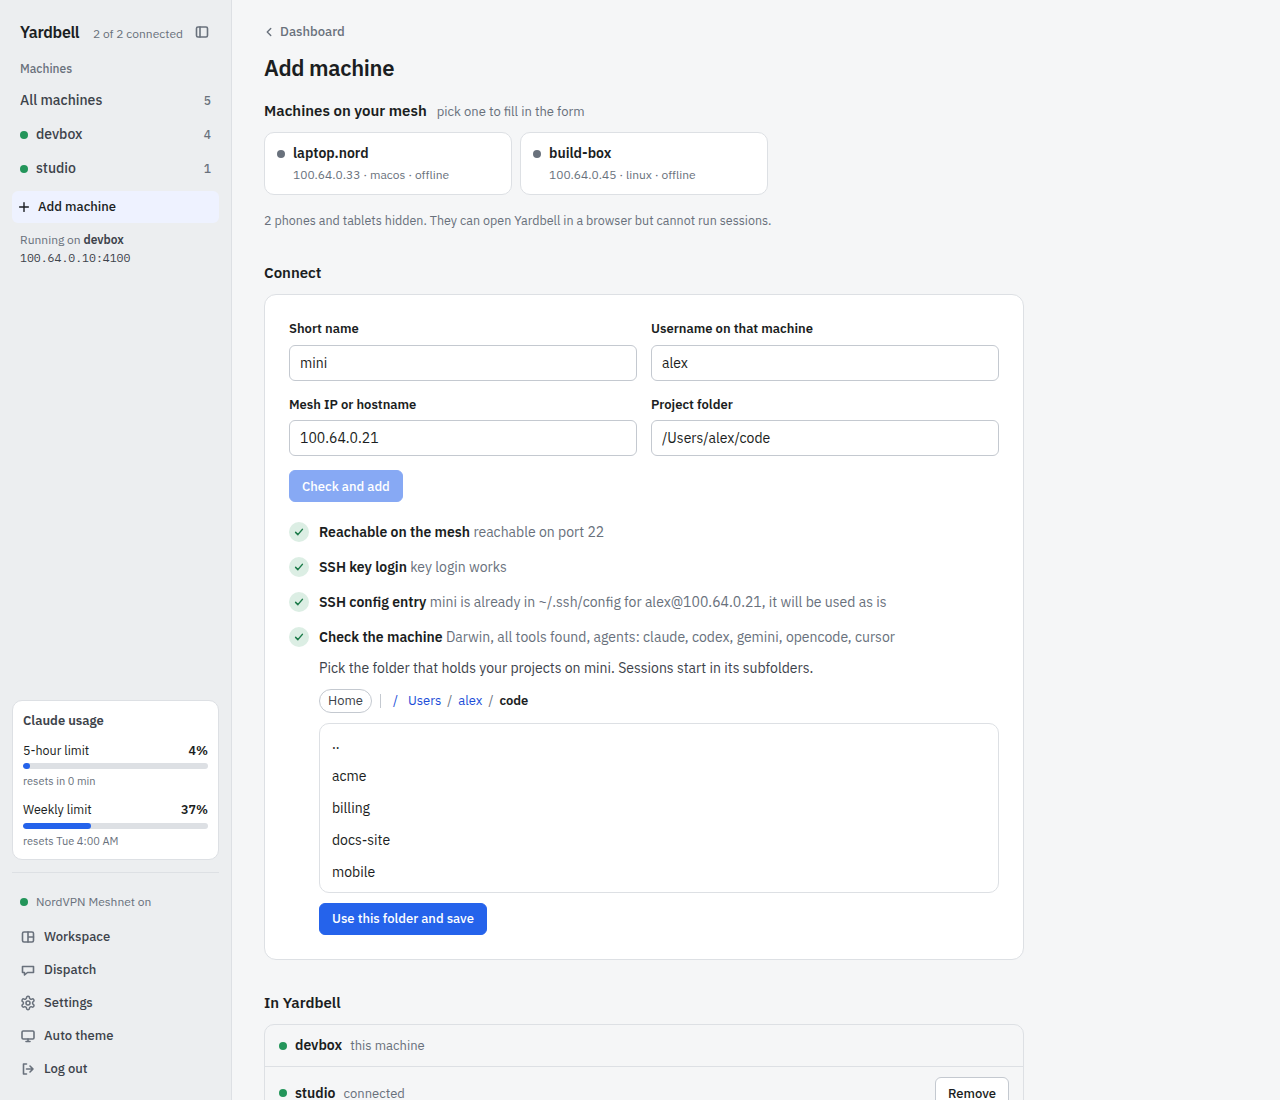
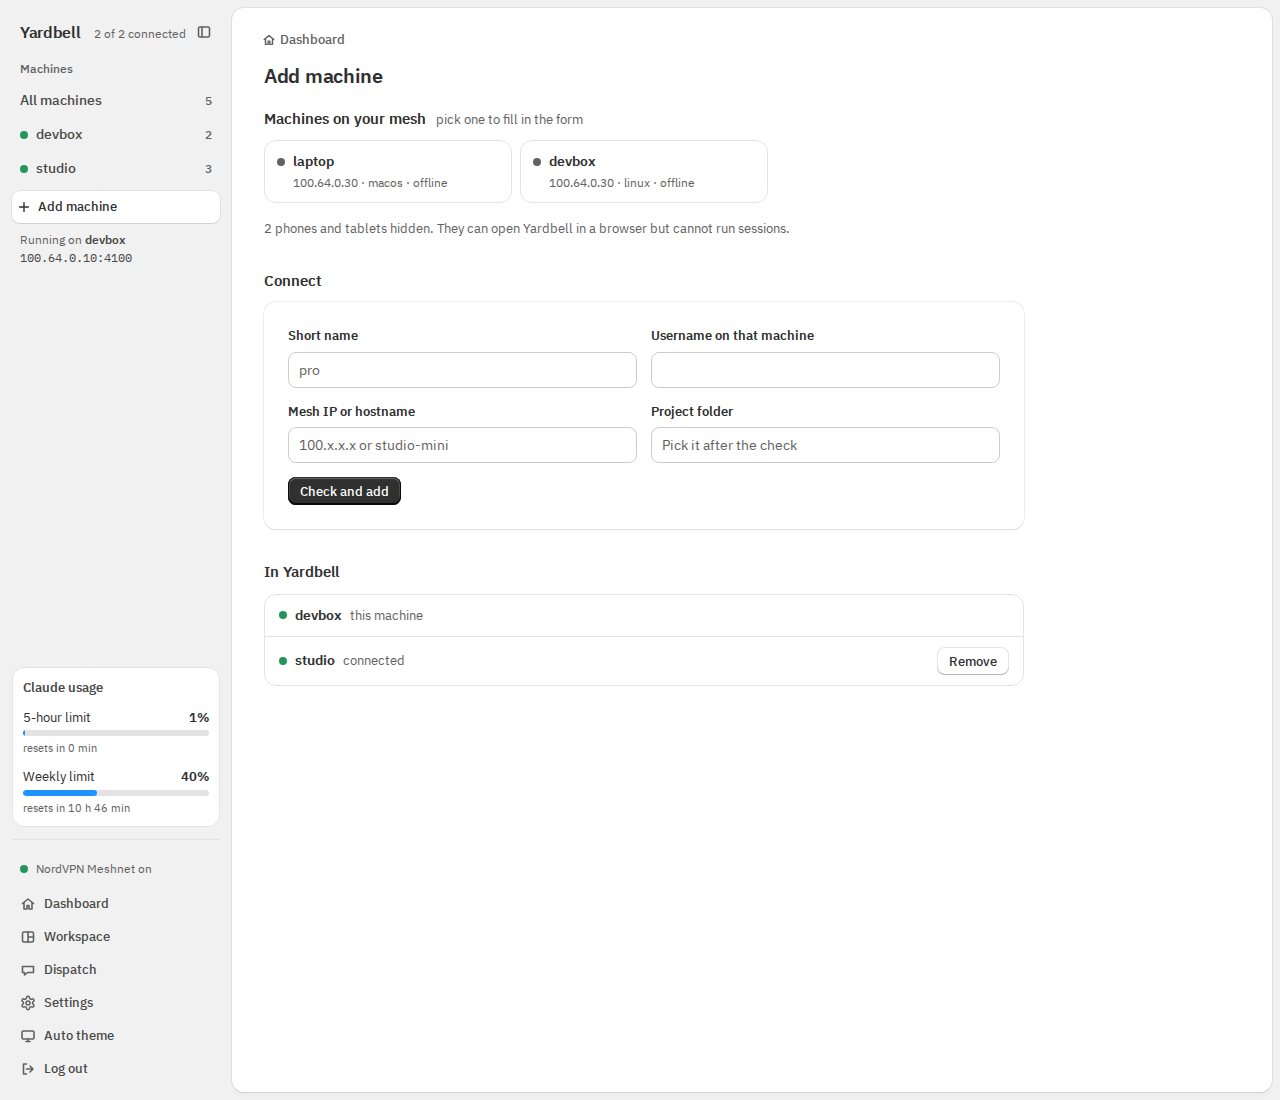
README and guide screenshots for 0.6.4, and a phone header fix
- Retake every screenshot with the 0.6.4 look and demo machines, names,
  tickets and addresses; the Workspace one shows Dispatch beside two
  terminals
- README mentions Dispatch in the Workspace and the shared page menu
- On a phone the Dashboard link stays out of the header menu, which it
  pushed over the Yardbell name; the name and back links lead home there

diff --git a/assets/style.css b/assets/style.css
@@ -1263,6 +1263,8 @@ html.embedded .embed-only { display: inline-flex; }
   .side-foot { margin: 0; padding: 0; border: 0; position: absolute; top: max(8px, env(safe-area-inset-top)); right: 8px; display: flex; gap: 2px; }
   .side-foot .side-link { padding: 4px 6px; font-size: 12px; }
   .side-foot .side-link .icon { display: none; }
+  /* The wordmark and the back links lead home on a phone, and the header has no room for one more. */
+  .side-foot .side-link[href="/"] { display: none; }
   .side-foot .theme-toggle .icon { display: inline-block; width: 18px; height: 18px; }
   .side-foot .theme-toggle .theme-word { display: none; }
   .banner { flex-direction: column; align-items: stretch; }

diff --git a/README.md b/README.md
@@ -19,7 +19,8 @@ Rust binary with a plain HTML UI, plus apps for macOS, Linux and Android.
   branch, and whether the agent is working, idle or waiting for you, read from its own screen.
 - **A terminal anywhere.** Any tmux session in the browser, the desktop app or the phone, with
   scrollback, a key row on phones, and the screen you use setting the session's size.
-- **Workspace.** Every terminal in one sidebar by machine and folder, with tabs and split panes.
+- **Workspace.** Every terminal in one sidebar by machine and folder, with tabs and split panes,
+  and Dispatch in a panel beside them.
 - **New sessions where you want them.** Pick a machine, one of its installed agents, a folder and a
   branch; other branches get their own git worktree.
 - **Ports, already tunnelled.** Docker Compose ports from each session's folder, forwarded to the
@@ -27,16 +28,19 @@ Rust binary with a plain HTML UI, plus apps for macOS, Linux and Android.
 - **Phone notifications.** The Android app says when an agent waits for you, a session ends, a
   machine goes down or memory runs low, with no other app to install.
 - **Dispatch.** Describe a task and Yardbell picks the machine with the repository and the most room,
-  then starts an agent there.
+  then starts an agent there. It sits beside your terminals in the Workspace, and hides with one
+  click.
 - **Add machines from the UI.** Mesh peers, ssh key setup, `~/.ssh/config`, tool checks and a folder
   picker, without editing a file.
 - **Mesh VPN aware.** NordVPN Meshnet, Tailscale, Headscale, NetBird and ZeroTier, and the apps
   find the servers on it so signing in takes only the passcode.
 - **An MCP server for agents.** Agents can list machines and sessions, start, read and answer them.
+- **One menu on every page.** Dashboard, Workspace, Dispatch and Settings in the same place
+  everywhere, with Dashboard always first.
 - **Light or dark, and small to run.** A theme button in every sidebar; about 9 MB of memory, a
   service in one command and a `doctor` that checks everything.
 
-![Workspace with two terminals side by side](docs/screenshots/workspace.png)
+![Workspace with Dispatch beside two terminals](docs/screenshots/workspace.png)
 
 ## Download
 

diff --git a/CHANGELOG.md b/CHANGELOG.md
@@ -5,6 +5,10 @@ and the project uses [Semantic Versioning](https://semver.org).
 
 ## [Unreleased]
 
+- On a phone, the header no longer covers the Yardbell name: the Dashboard link added to the menu
+  in 0.6.4 stays out of it there, since the name and the back links already lead home.
+- The README and the guide show the 0.6.4 look, with Dispatch in the Workspace.
+
 ## [0.6.4] - 2026-10-26
 
 - Dispatch is in the Workspace: a panel between the sidebar and the terminals, open until you hide
